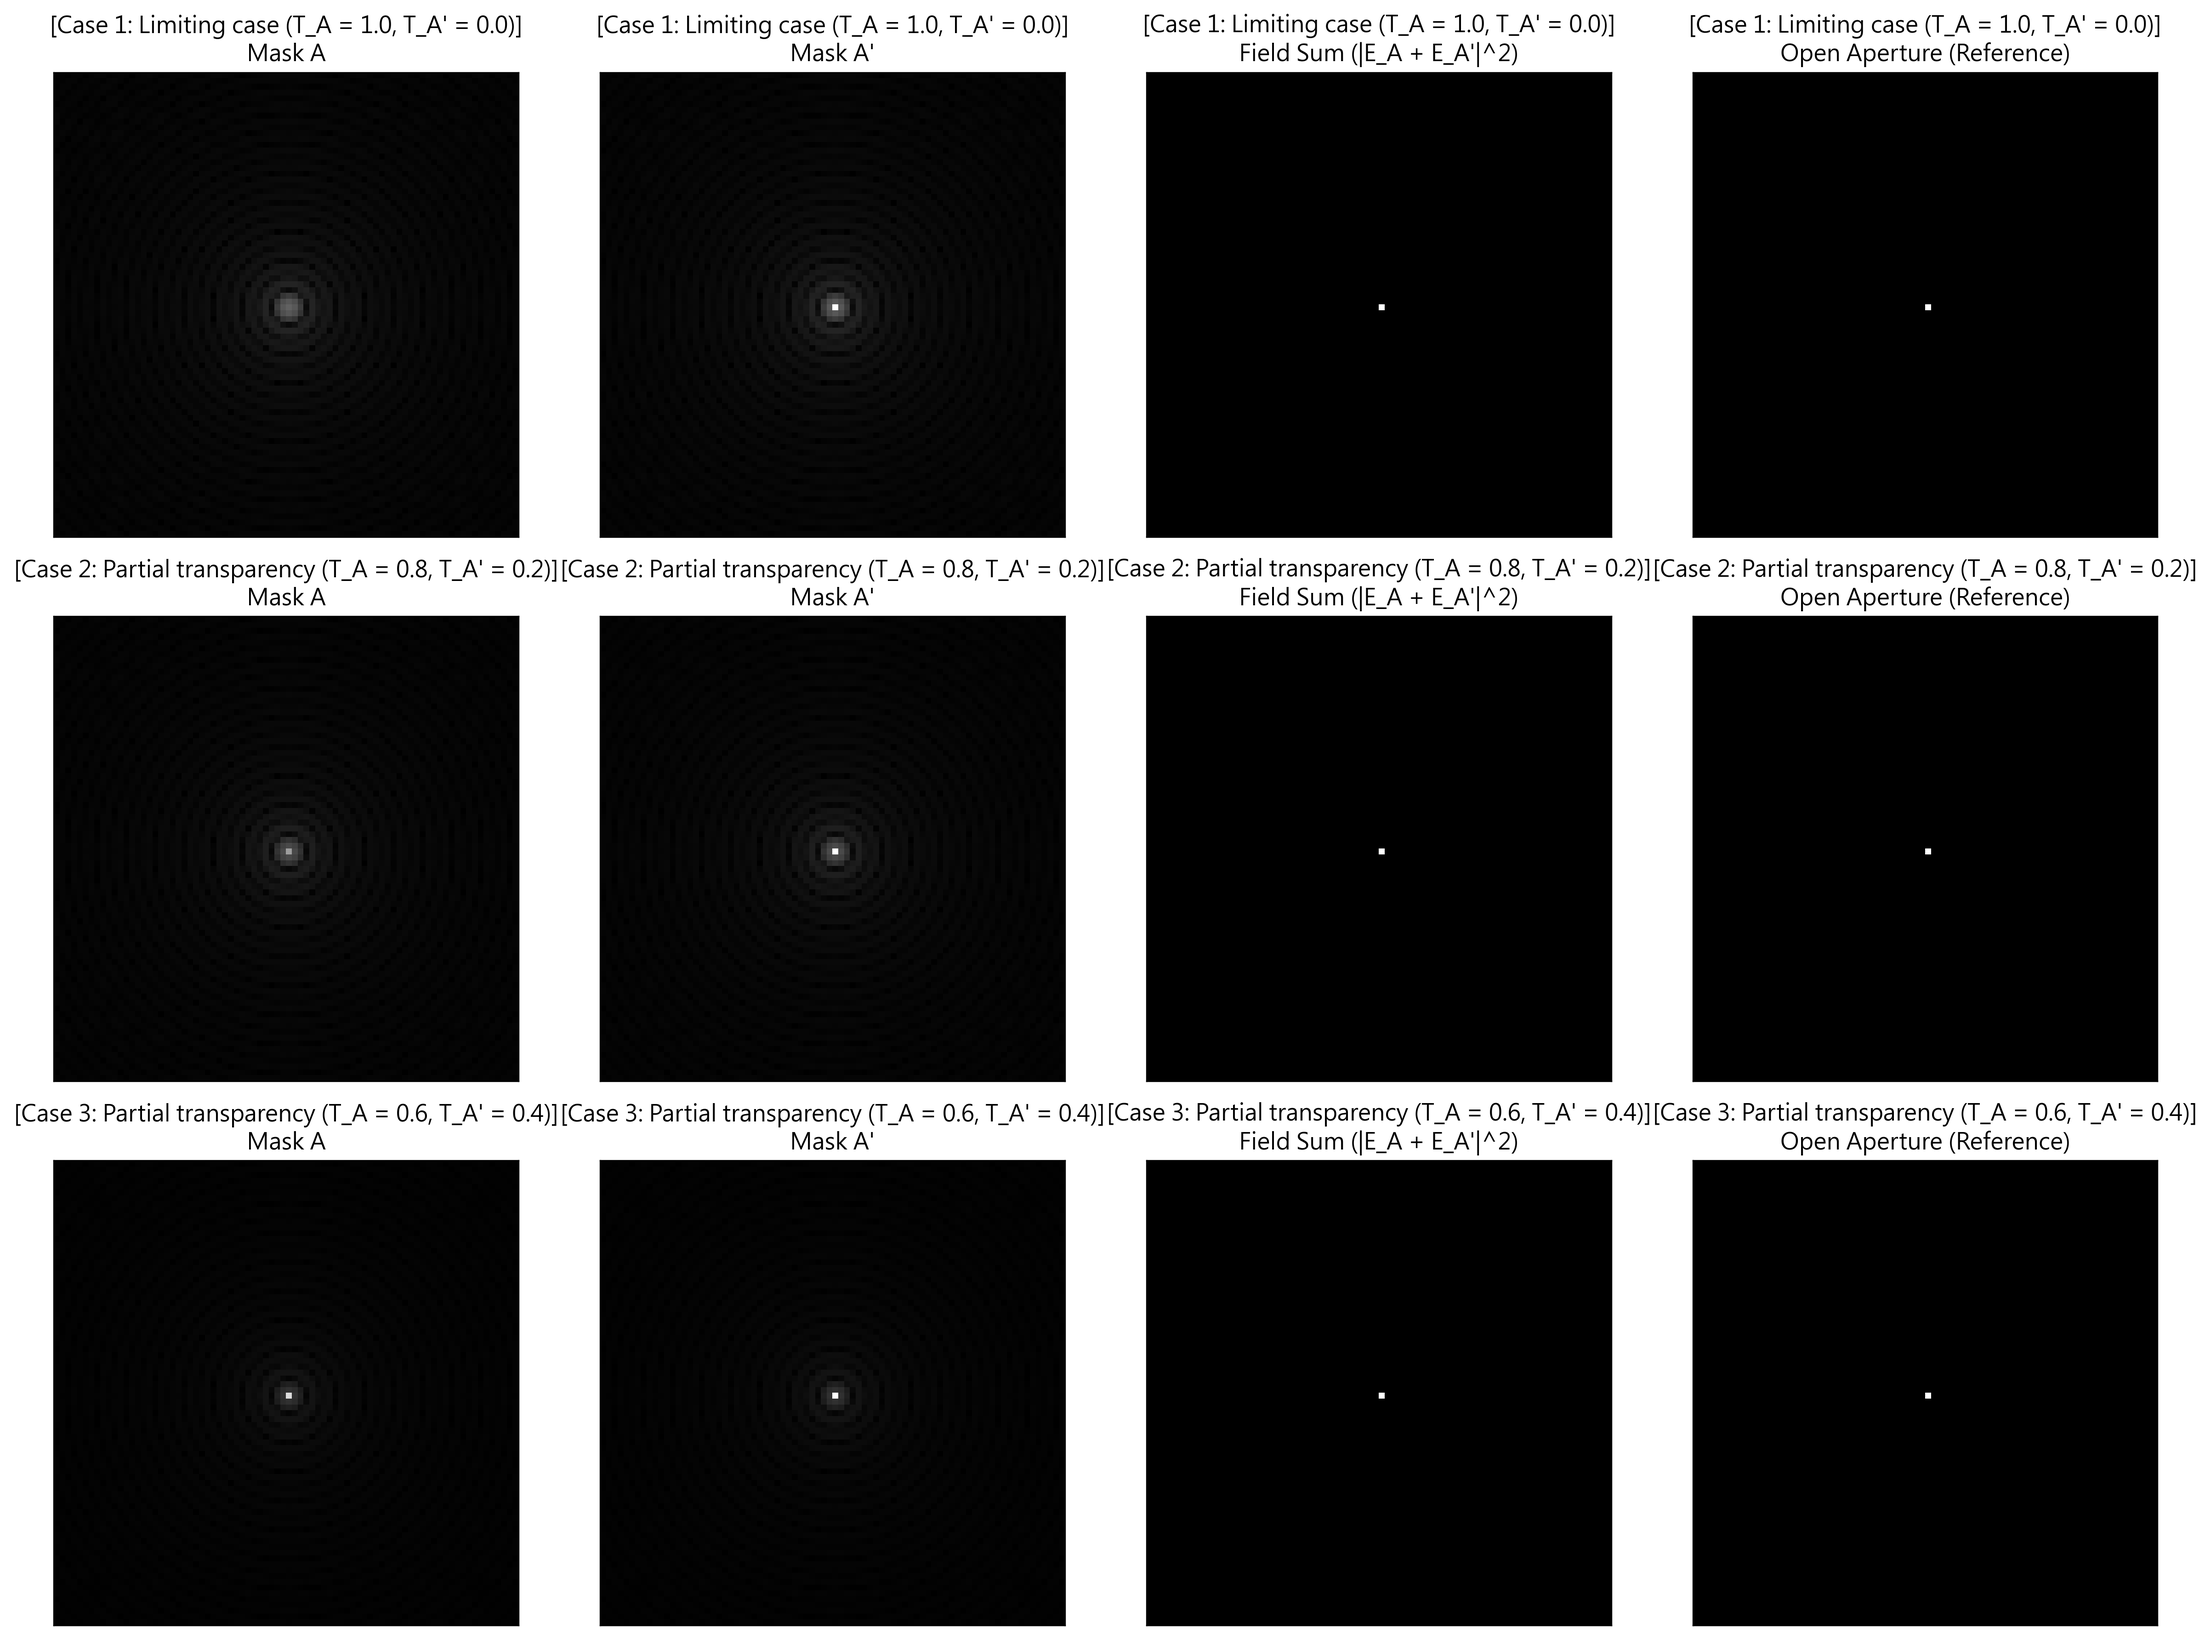
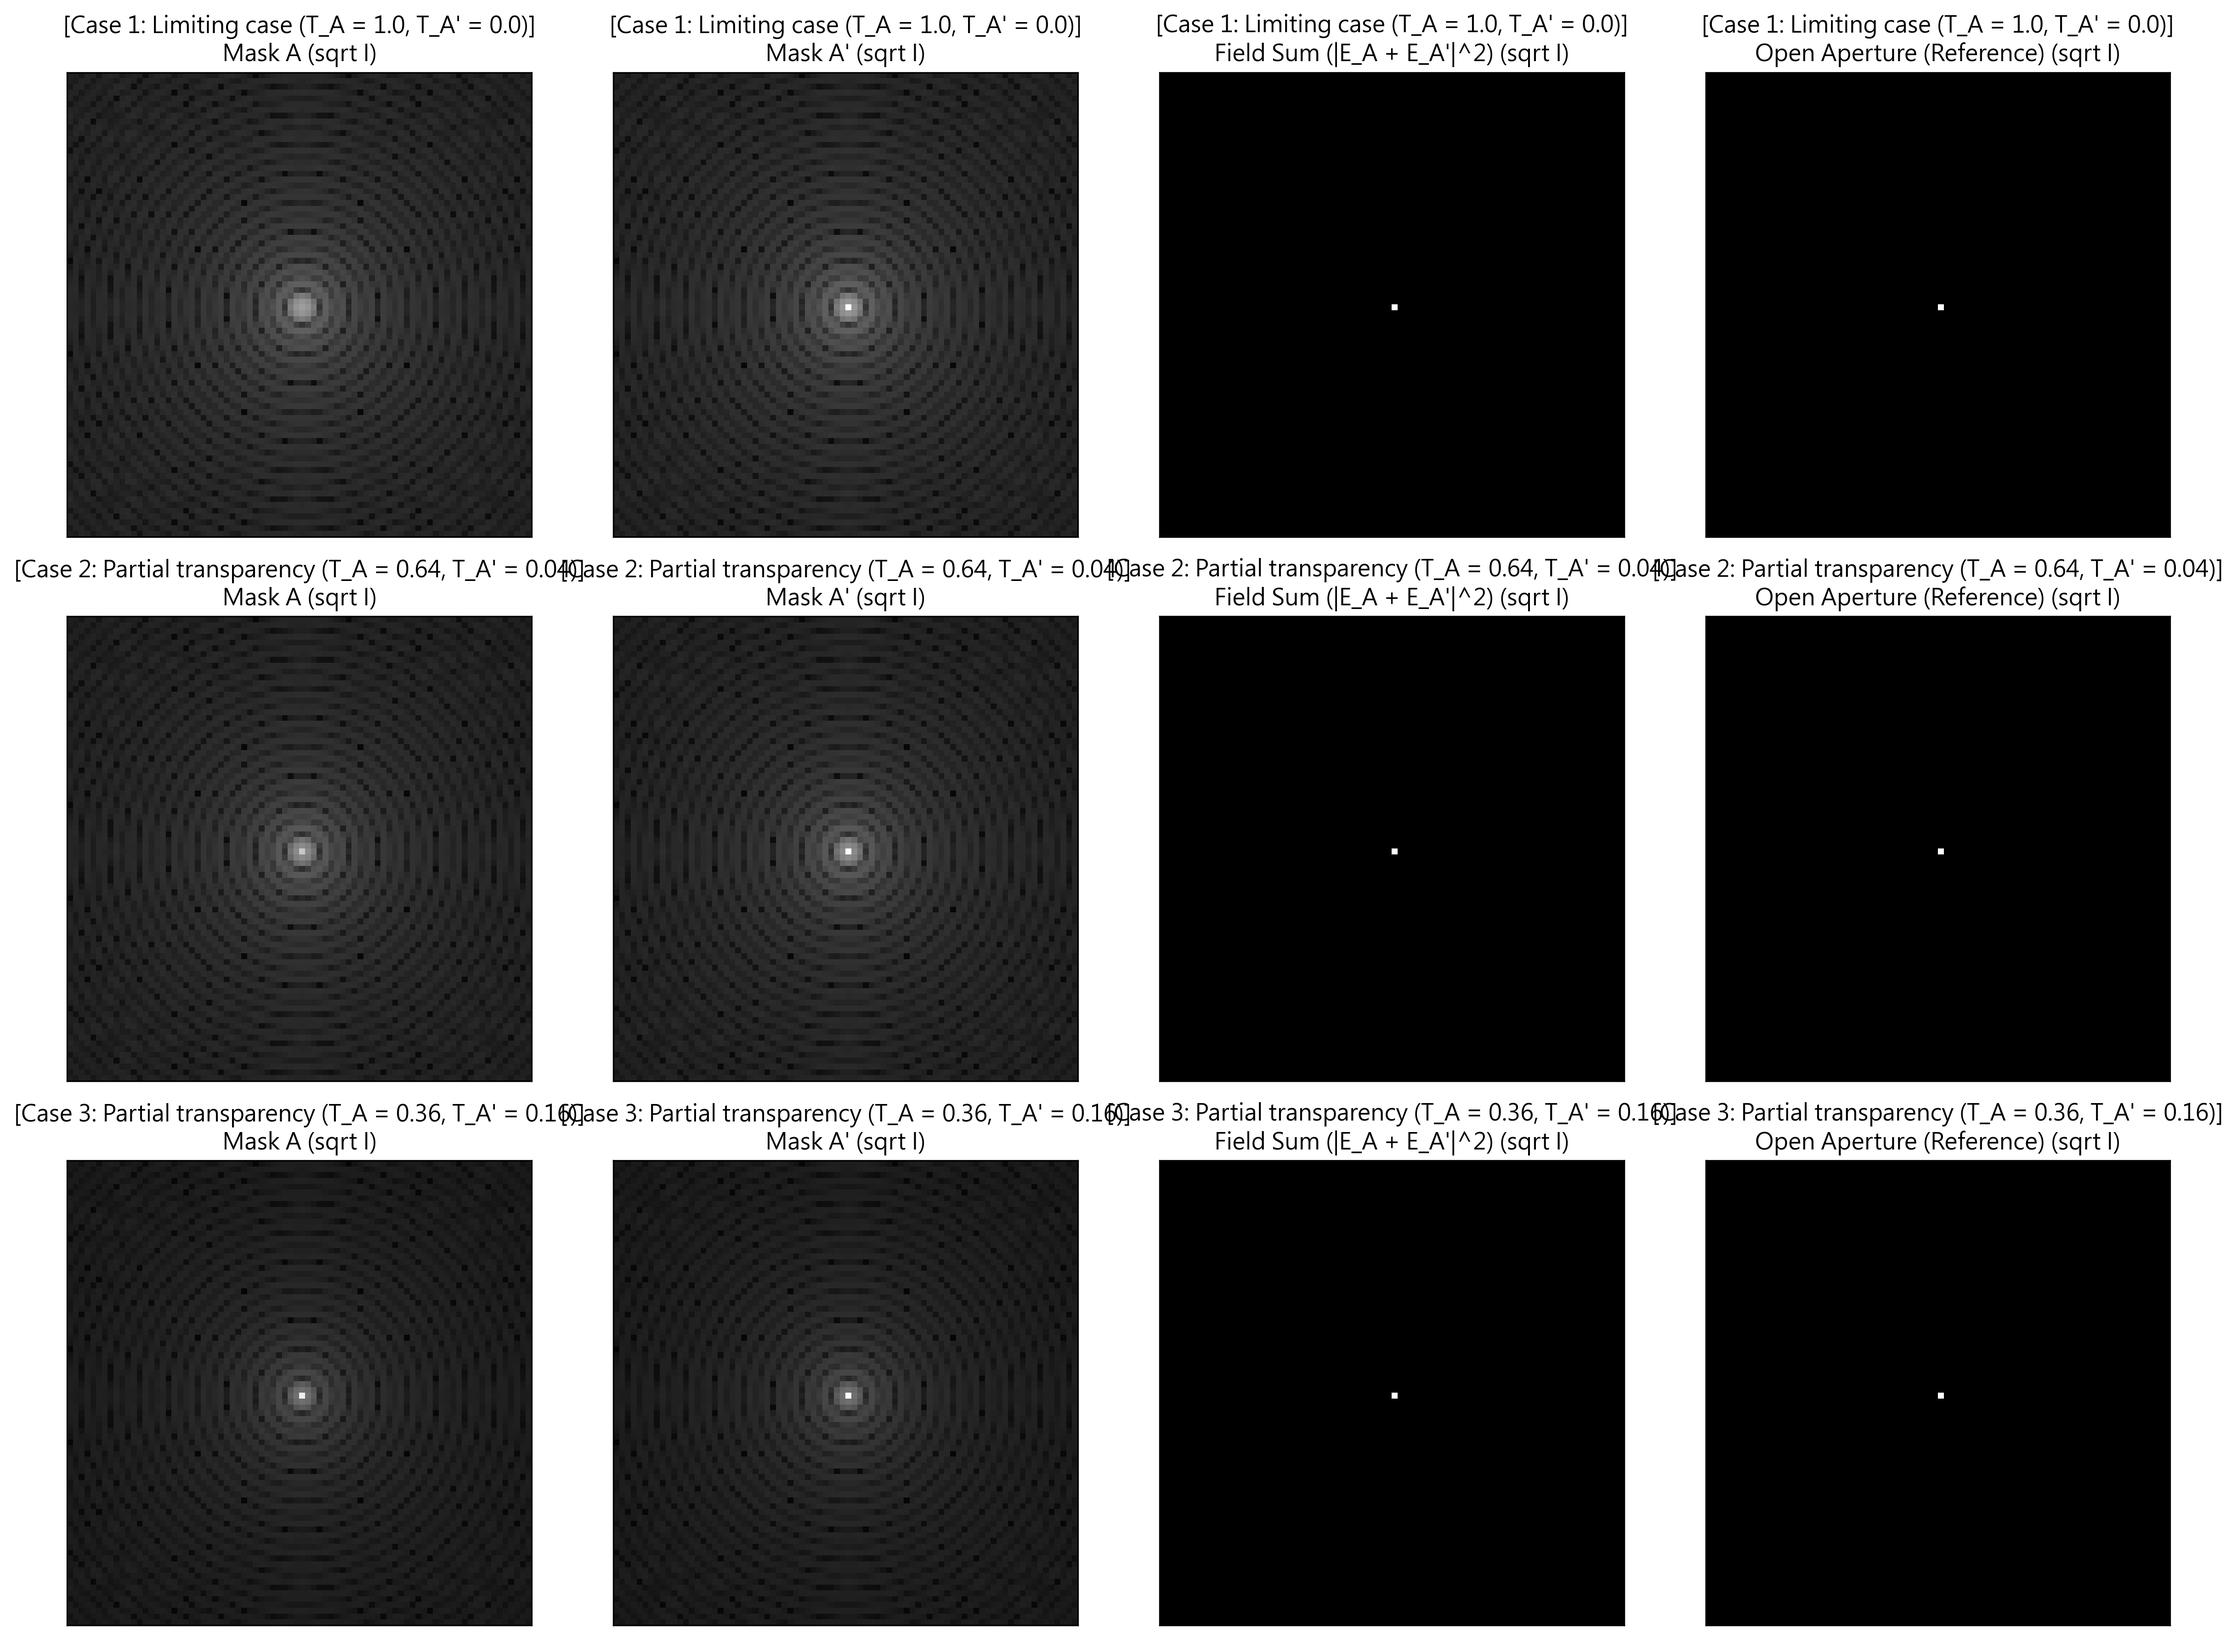
fix transparency declaration, use sqrt I for better observation

diff --git a/3 partial transparency.py b/3 partial transparency.py
@@ -57,8 +57,8 @@ I_open_c = crop_center(I_open, CROP)
 # T_A, T_Ap 是強度透過率；實際乘在 mask 上的是振幅 sqrt(T)
 cases = [
     ("Case 1: Limiting case (T_A = 1.0, T_A' = 0.0)", 1.0, 0.0),
-    ("Case 2: Partial transparency (T_A = 0.8, T_A' = 0.2)", 0.8, 0.2),
-    ("Case 3: Partial transparency (T_A = 0.6, T_A' = 0.4)", 0.6, 0.4),
+    ("Case 2: Partial transparency (T_A = 0.64, T_A' = 0.04)", 0.64, 0.04),
+    ("Case 3: Partial transparency (T_A = 0.36, T_A' = 0.16)", 0.36, 0.16),
 ]
 
 # ========== Matplotlib 初始化 (3行 x 4列) ==========
@@ -71,6 +71,9 @@ def plot_intensity(ax, I_cropped, title):
     # 使用 gamma 調整 (與原 VPython 程式碼一致)
     gamma = 0.25
     I_disp = I_cropped**gamma
+
+    # sqrt for better observation
+    I_disp = np.sqrt(I_disp)
     
     # 使用 imshow 繪製灰階圖案
     im = ax.imshow(I_disp, cmap='gray', vmin=0, vmax=1)
@@ -83,8 +86,8 @@ def plot_intensity(ax, I_cropped, title):
 # ========== 逐個 case 模擬並畫圖 ==========
 for idx, (case_name, T_A, T_Ap) in enumerate(cases):
     # 振幅透過率
-    tA = T_A
-    tAp = T_Ap
+    tA = np.sqrt(T_A)
+    tAp = np.sqrt(T_Ap)
 
     # 對應到實際的「振幅 mask」
     maskA      = tA  * A + tAp * A_comp
@@ -115,19 +118,19 @@ for idx, (case_name, T_A, T_Ap) in enumerate(cases):
     
     # Column 0: Mask A
     plot_intensity(axes[idx, 0], I_A_c,
-                   f"[{case_name}]\nMask A")
+                   f"[{case_name}]\nMask A (sqrt I)")
     
     # Column 1: Mask A'
     plot_intensity(axes[idx, 1], I_A_comp_c,
-                   f"[{case_name}]\nMask A'")
+                   f"[{case_name}]\nMask A' (sqrt I)")
     
     # Column 2: Field Sum (A + A')
     plot_intensity(axes[idx, 2], I_sum_c,
-                   f"[{case_name}]\nField Sum (|E_A + E_A'|^2)")
+                   f"[{case_name}]\nField Sum (|E_A + E_A'|^2) (sqrt I)")
     
     # Column 3: Open Aperture (所有 case 相同，用於比較 Babinet's principle)
     plot_intensity(axes[idx, 3], I_open_c,
-                   f"[{case_name}]\nOpen Aperture (Reference)")
+                   f"[{case_name}]\nOpen Aperture (Reference) (sqrt I)")
 
     print(case_name, "simulated with partial transparency.")
     # ========== Babinet check ==========
